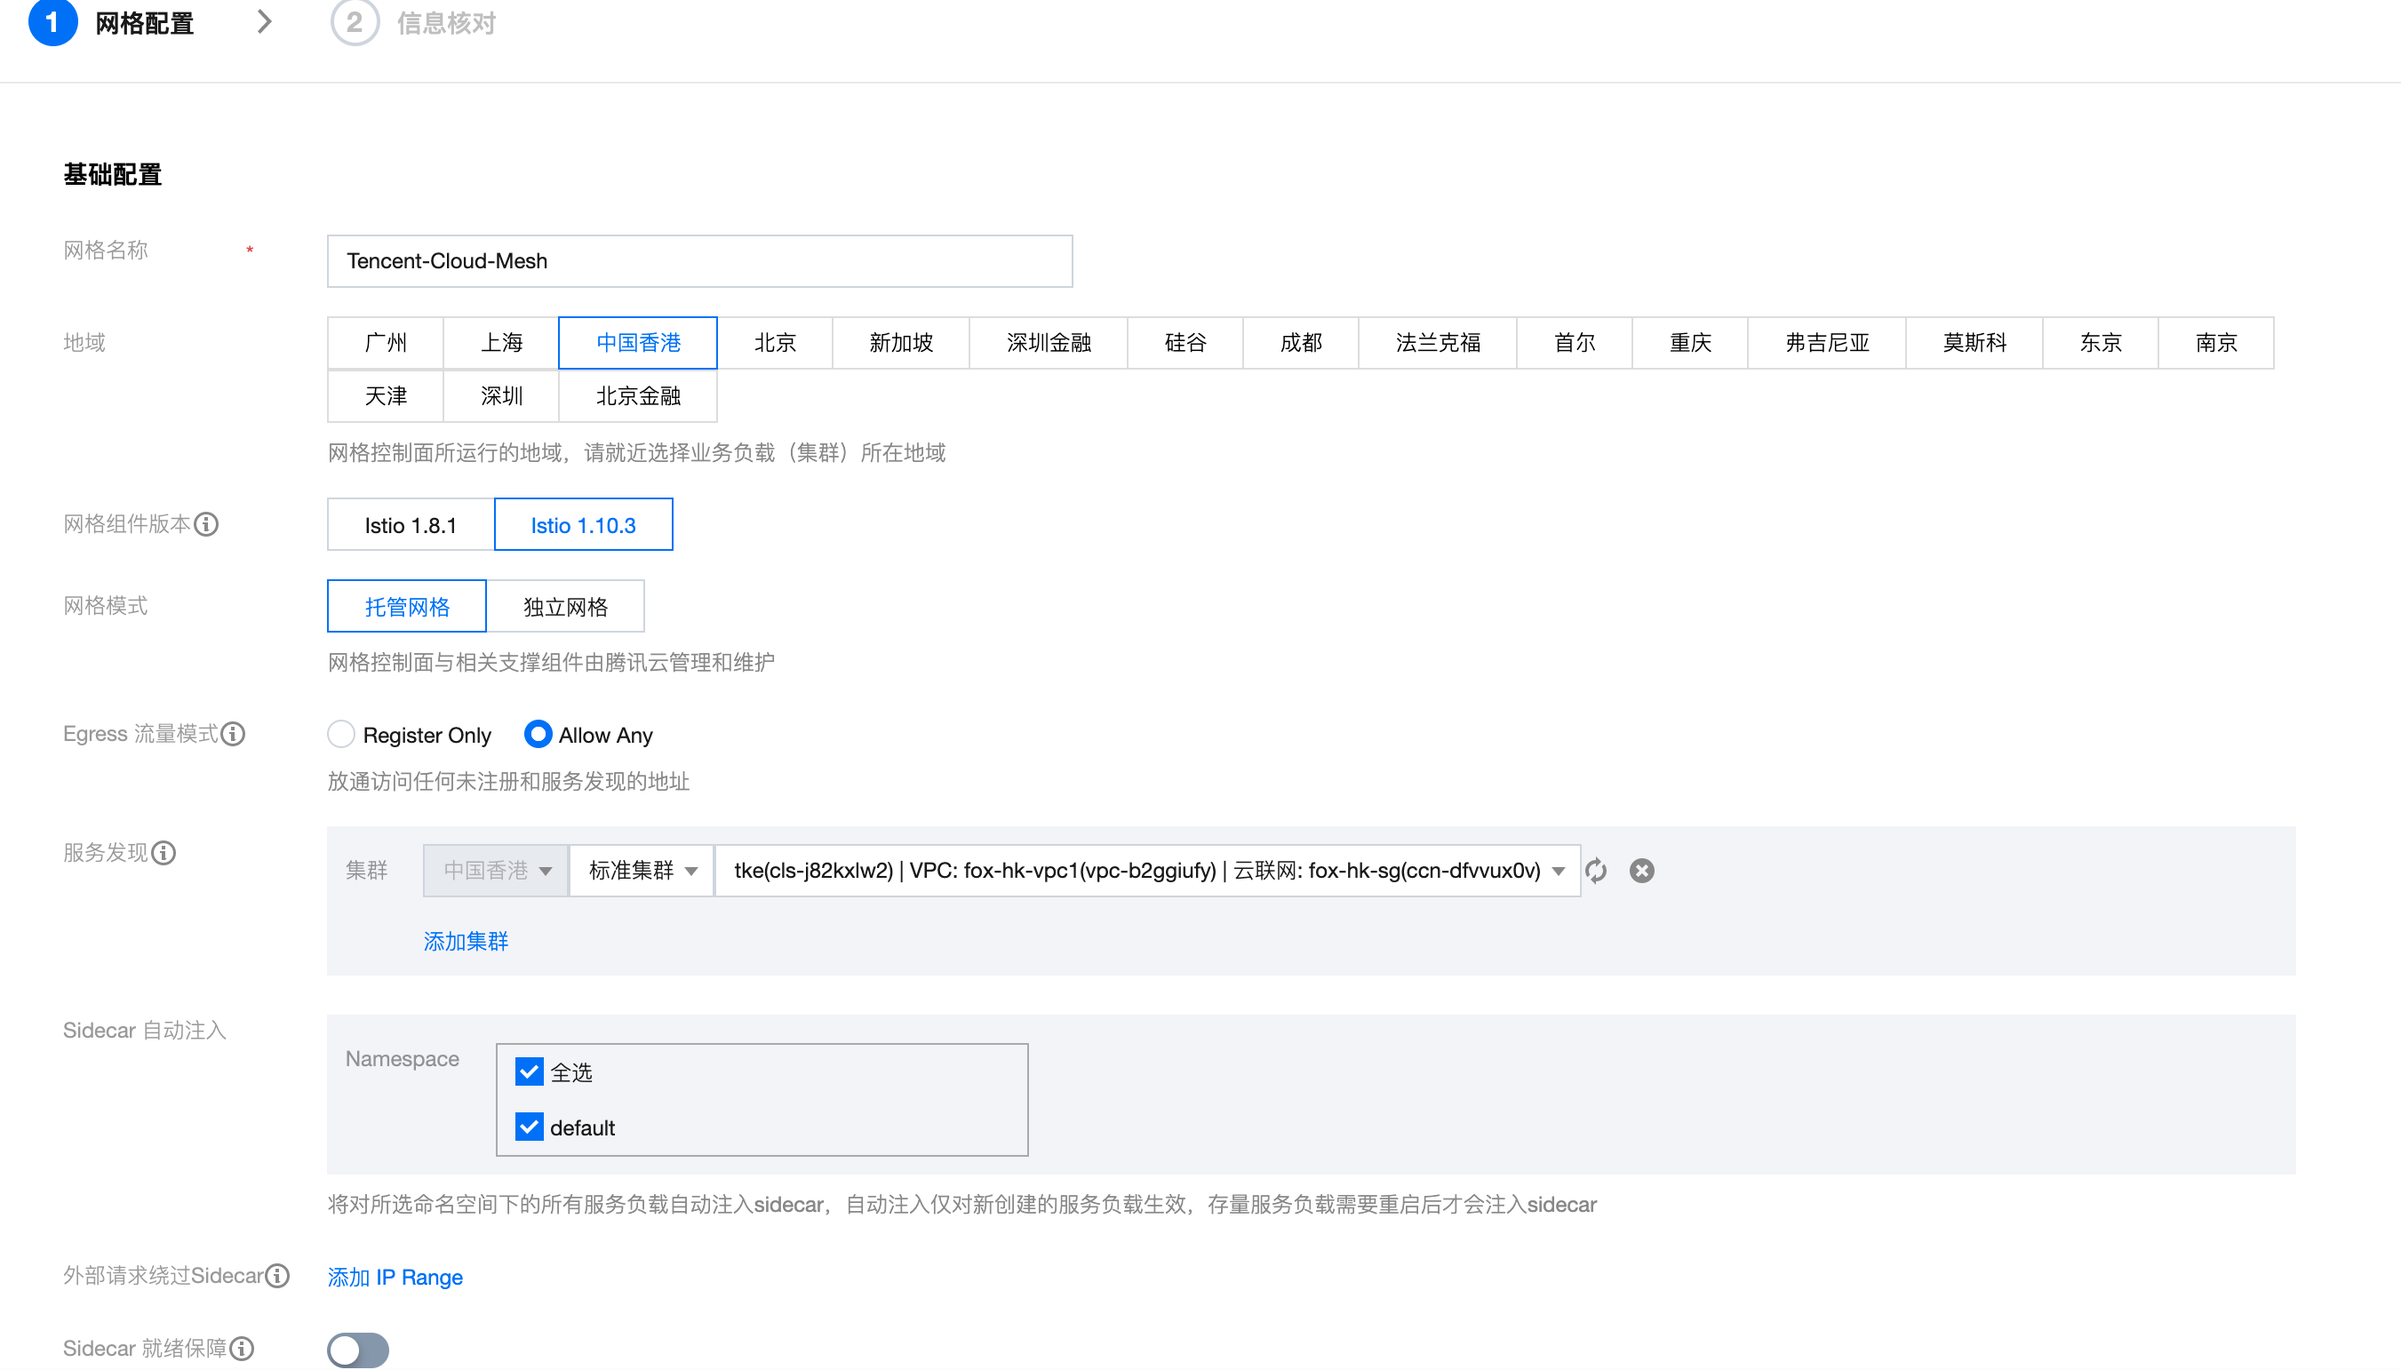
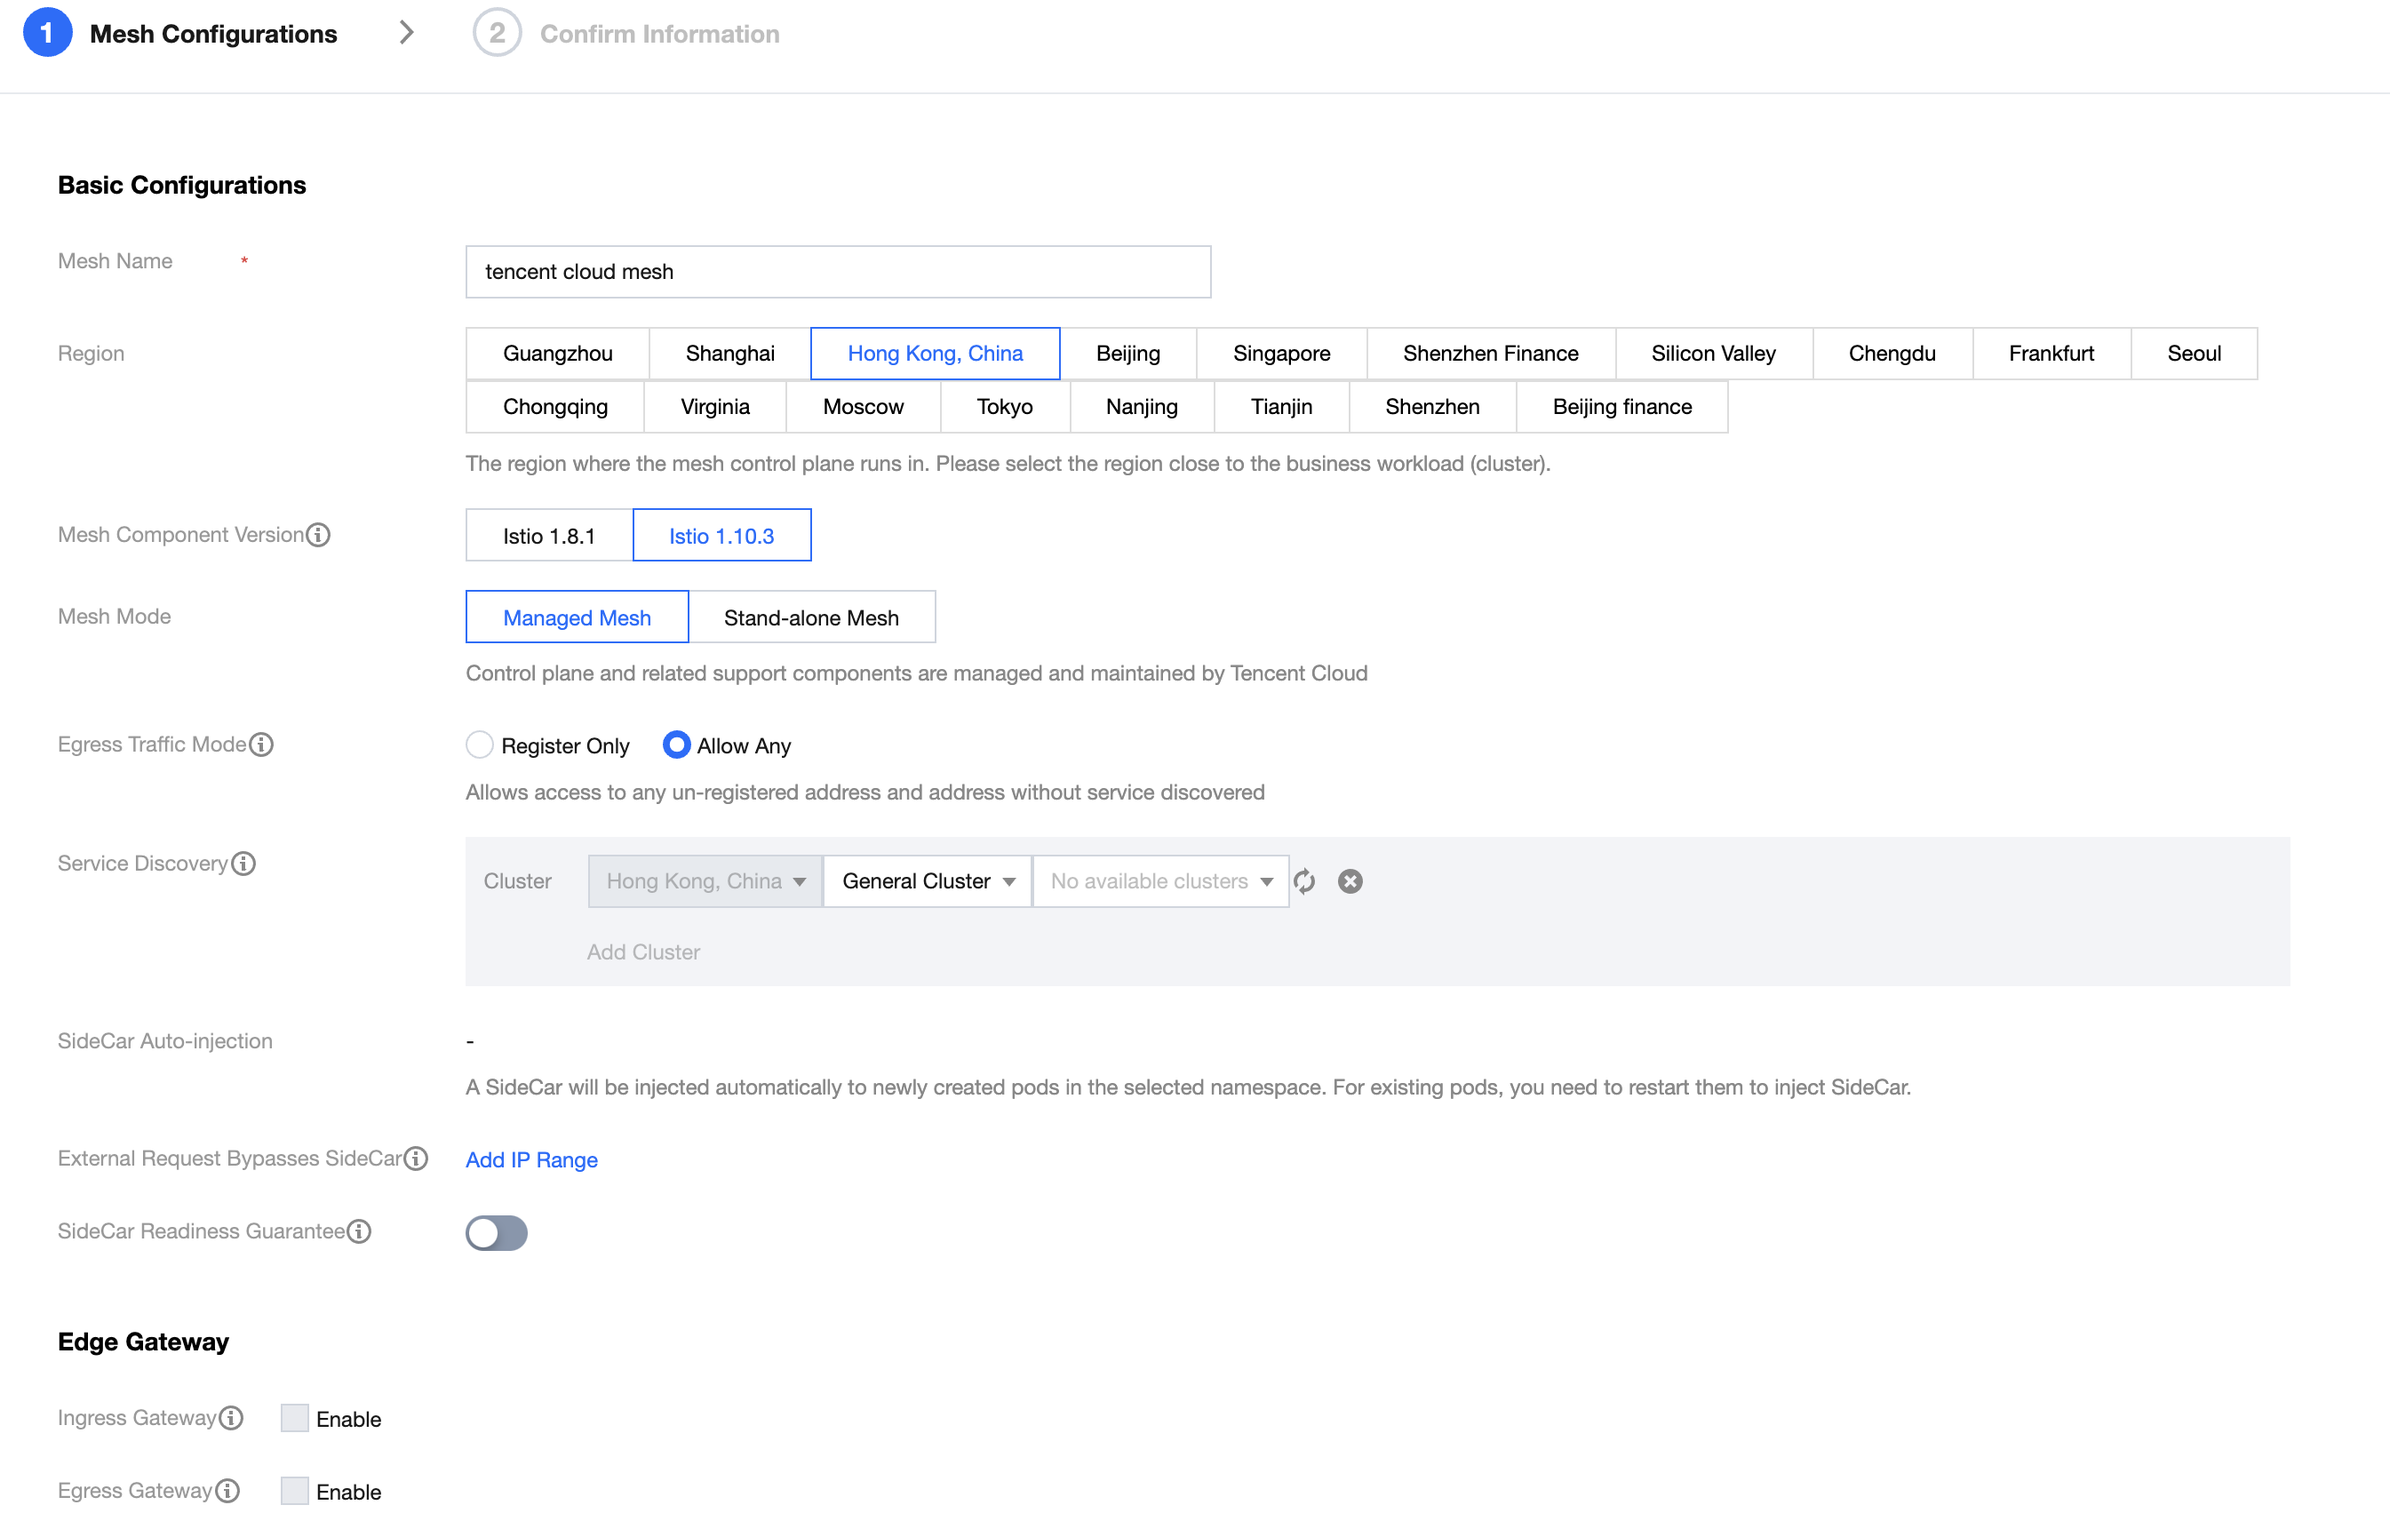
fix: change images into English and update related links to english

diff --git a/content/en/docs/setup/platform-setup/tencent-cloud-mesh/index.md b/content/en/docs/setup/platform-setup/tencent-cloud-mesh/index.md
@@ -1,19 +1,18 @@
 ---
-title: Tencent Cloud Mesh
-description: Instructions to setup Tencent Cloud Mesh for Istio.
+title: Tencent Cloud
+description: Instructions to setup Istio quickly in Tencent Cloud.
 weight: 65
 skip_seealso: true
-aliases:
-    - /docs/setup/kubernetes/prepare/platform-setup/tcm/
-    - /docs/setup/kubernetes/platform-setup/tcm/
 keywords: [platform-setup,tencent-cloud-mesh,tcm,tencent-cloud,tencentcloud]
 owner: istio/wg-environments-maintainers
 test: n/a
 ---
 
-Follow these instructions to prepare a [Tencent Kubernetes Engine](https://cloud.tencent.com/product/tke) or [Elastic Kubernetes Service](https://cloud.tencent.com/product/eks) cluster for Istio.
+## Prerequisites
 
-You can deploy a Kubernetes cluster to Tencent Cloud via [Tencent Kubernetes Engine](https://cloud.tencent.com/document/product/457/32189) or [Elastic Kubernetes Service](https://cloud.tencent.com/document/product/457/39813) which fully supports Istio.
+Follow these instructions to prepare a [Tencent Kubernetes Engine](https://intl.cloud.tencent.com/products/tke) or [Elastic Kubernetes Service](https://intl.cloud.tencent.com/product/eks) cluster for Istio.
+
+You can deploy a Kubernetes cluster to Tencent Cloud via [Tencent Kubernetes Engine](https://intl.cloud.tencent.com/document/product/457/40029) or [Elastic Kubernetes Service](https://intl.cloud.tencent.com/document/product/457/34048) which fully supports Istio.
 
 {{< image link="./tke.png" caption="Create Cluster" >}}
 
@@ -51,18 +50,16 @@ After creating a Tencent Kubernetes Engine or Elastic Kubernetes Service cluster
 
 1. Configure external requests to bypass the IP address block directly accessed by the sidecar, and external request traffic will not be able to use Istio traffic management, observability and other features.
 
-1. Choose to open sidecar readiness assurance or not. If it is open, app containers will be created after sidecar is running.
-
-    {{< image link="./ingress-egress.png" caption="Configure Gateway" >}}
+1. Choose to open **SideCar Readiness Guarantee** or not. If it is open, app containers will be created after sidecar is running.
 
 1. Configure the Ingress Gateway and Egress Gateway.
 
-    {{< image link="./tps.png" caption="Configure Observability" >}}
+{{< image link="./tps.png" caption="Configure Observability" >}}
 
 1. Configure the Observability of Metrics, Tracing and Logging.
 
     {{< tip >}}
-    Besides the default Cloud Monitor services, You can choose to open the advanced external services like [Managed Service for Prometheus](https://cloud.tencent.com/product/tmp) and the [Cloud Log Service](https://cloud.tencent.com/product/cls).
+    Besides the default Cloud Monitor services, You can choose to open the advanced external services like [Managed Service for Prometheus](https://intl.cloud.tencent.com/document/product/457/38824?has_map=1) and the [Cloud Log Service](https://intl.cloud.tencent.com/product/cls).
     {{< /tip >}}
 
 After finishing these steps, you can confirm to create Istio and start to use Istio in Tencent Cloud Mesh.
